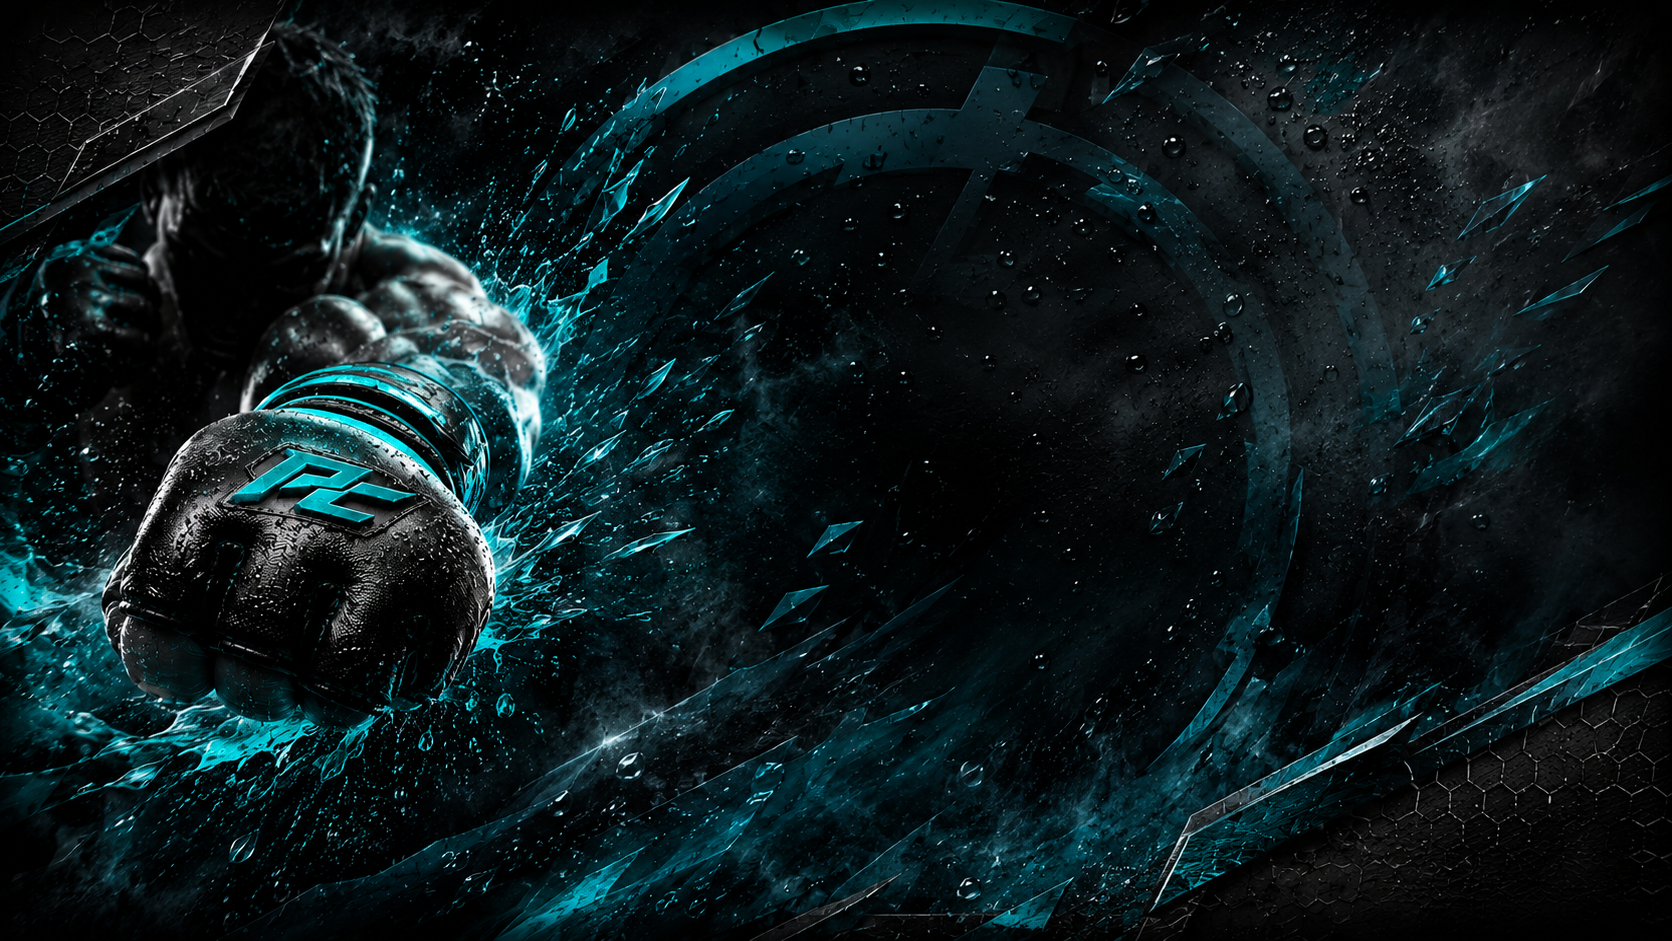
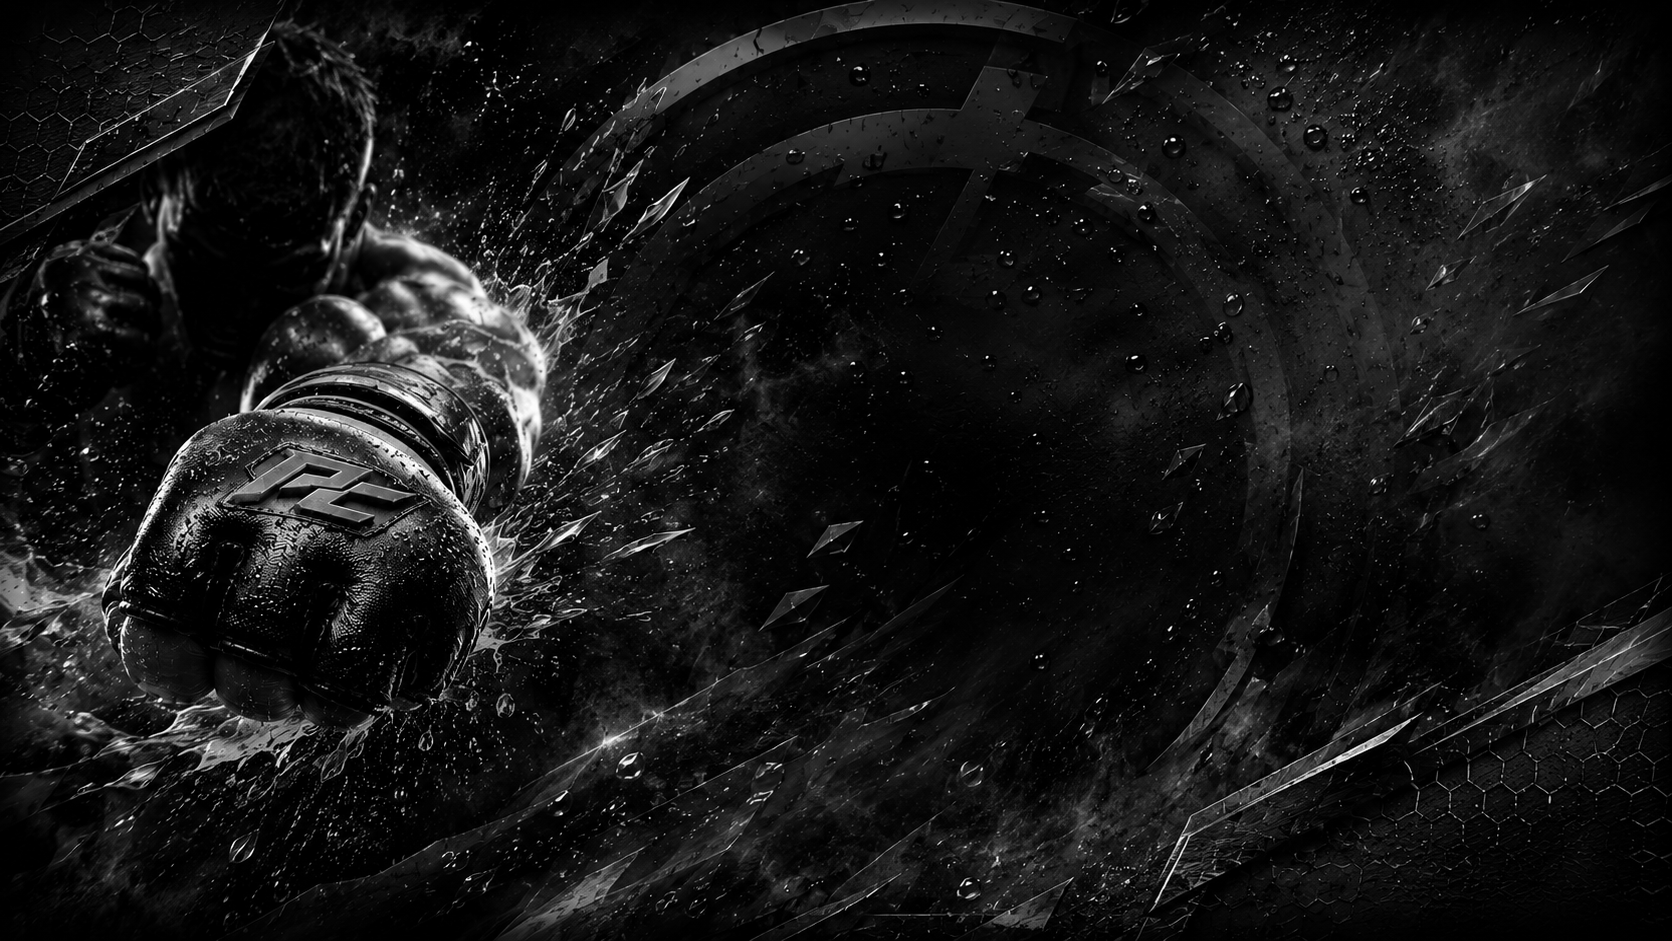
refactor(theme): full metallic-chrome greyscale wash
Every background, surface, border and signal goes colorless
(Kyle: "get the rest of our css teal out of there; all backgrounds
should be greyscale"):

- colors.ts: near-black neutral ground, charcoal/gunmetal surfaces,
  steel lines, and a SHINE ladder where hue used to be — reward
  (near-white) > success (bright chrome) > accent (polished chrome) >
  text tiers. Danger stays a text-carried steel; the no-red rule and
  the hex-distinctness the tests compare by are preserved. The only
  colours left in the UI are the two physical glove dots (blue left,
  red-orange right) — facts, not theme.
- ForgedButton variants remap to chrome gradient stops (inverted
  dark-top → lit-bottom kept); silver bevels, no turquoise anywhere.
- backdrop-landscape.png desaturated in place (git history keeps the
  teal original); the D17 scrim now casts neutral.
- adaptiveIcon background follows the new ground (#0B0D0E).

Residual sweep: zero hex literals outside the theme module.

diff --git a/src/theme/colors.ts b/src/theme/colors.ts
@@ -1,5 +1,5 @@
 /**
- * App-wide dark palette — punchCraft brand.
+ * App-wide dark palette — metallic chrome.
  *
  * The app is dark-only (`userInterfaceStyle: 'dark'` in app.config.ts), so
  * there is no light variant. Every screen and shared component pulls from
@@ -8,179 +8,151 @@
  *
  * ## The palette
  *
- * Fully cool: electric turquoise and its family (bright cyan, highlight
- * turquoise, light aqua, deep teal) over a near-black-teal ground with
- * cool-neutral steel/silver mids. The wordmark art is silver-metallic
- * chiseled type on the same near-black; the rest of the app is now that
- * same ground so the wordmark reads as native to the UI, not glued on.
+ * Colorless by design (Kyle 2026-08-28): a near-black neutral ground with
+ * charcoal/gunmetal surfaces, steel lines, and silver-to-white shine for
+ * everything that used to be an accent hue. The authored button art is
+ * polished chrome on dark metal, and the UI reads as the same material.
  *
- * One deliberate warm holdout — `trackerRight` stays orange, because the
- * physical FightCamp v1 tracker on the right glove is red-orange (see
- * ble/knownTrackers.ts and spec §14). Losing that would break the
- * on-screen-to-on-wrist mapping.
+ * Color survives in exactly three places, all deliberate:
+ * - the punchCraft wordmark (silver + cyan art, used everywhere),
+ * - `trackerLeft` — the physical BLUE left glove,
+ * - `trackerRight` — the physical RED-ORANGE right glove
+ *   (see ble/knownTrackers.ts and spec §14: on-screen must match
+ *   on-wrist).
+ *
+ * ## Shine is the new hue
+ *
+ * With hue gone, brightness carries the semantic ladder:
+ * reward (`gold`, near-white) > success > accent (polished chrome) >
+ * primary text > secondary text > muted. Spec §19.4 — colour is never
+ * the only signal — is now load-bearing everywhere: every state that
+ * used to lean on a hue difference must keep its words and icons, and
+ * the existing tests enforce that pairing.
  *
  * ## Why the semantic roles are not the raw swatches
  *
- * The raw palette (`punch.*` below) is exported for large fills and
- * decorative surfaces where contrast is not the constraint. Text-carrying
- * roles use the same family members chosen for legibility on the near-black
- * ground.
- *
- * Spec §19.4 still applies to all of it: colour is never the only signal.
- * With warm signalling gone, that discipline is more important, not less —
- * `danger`, `warning`, and `gold` no longer carry their meaning by hue
- * alone. Every surface that uses them also carries the words and an icon,
- * and that pairing is enforced by test in `ConflictNotice` and the cue
- * tokens.
+ * The raw palette (`punch.*`) is exported for fills and decorative areas
+ * where contrast is not the constraint; text-carrying roles pick members
+ * chosen for legibility on the near-black ground.
  */
 
 /**
- * The raw brand palette. Use these for fills, borders and decorative
+ * The raw chrome palette. Use these for fills, borders and decorative
  * areas — not for small text on the background.
  */
 export const punch = {
-  /** Electric turquoise — the wordmark's cyan and the primary brand pop. */
-  turquoise: '#22D3DC',
-  /** Slightly warmer/deeper turquoise; the blue-glove tracker dot. */
-  turquoiseDeep: '#1EBBC4',
-  /** Highlight cyan — brighter than accent; the "yes / glow" signal. */
-  turquoiseBright: '#54E8EF',
-  /**
-   * Deep turquoise — the mid-dark member of Kyle's authored palette.
-   * Dark enough for silver-metal label art to pop, saturated enough to
-   * still read as the turquoise action colour.
-   */
-  turquoiseMid: '#15949C',
-  /** Light aqua — the brightest cool; the reward-badge fill. */
-  aqua: '#8CF4F7',
-  /** Deep teal — accent-tinted selected rows. */
-  tealDeep: '#074348',
-  /** Dark teal — cautionary / connecting state. */
-  tealDark: '#0B6970',
-  /** Near-black teal — the app ground. */
-  tealBlack: '#051C1F',
-  /** Charcoal — cool near-black card surface. */
-  charcoal: '#111718',
-  /** Gunmetal — elevated card surface. */
-  gunmetal: '#202A2C',
+  /** Near-white shine — the reward tier. */
+  shine: '#FBFDFD',
+  /** Bright chrome — success / connected. */
+  chromeBright: '#EFF2F3',
+  /** Polished chrome — the action colour (accent). */
+  chrome: '#D9DEE1',
+  /** Silver — secondary text. */
+  silver: '#C6CACC',
+  /** Cool grey — muted labels. */
+  grey: '#81888C',
+  /** Dim steel — cautionary. */
+  steelDim: '#767F83',
+  /** Steel-strong — heavy borders. */
+  steelStrong: '#5A6367',
+  /** Steel-light — the Stop / danger fill (distinct from border). */
+  steelLight: '#4C5457',
   /** Steel — hairlines and borders. */
-  steel: '#3B494A',
-  /**
-   * Steel-light — the Stop / danger colour. A distinct value from
-   * `steel`/`border` on purpose: the tokens.test "no red flash" rule
-   * filters by *hex*, so `danger` must not collide with any hue that
-   * legitimately appears inside cue UI (which uses `border` heavily).
-   */
-  steelLight: '#4A5A5C',
-  /**
-   * Deep charcoal-teal — the destructive-button background. A distinct
-   * value from `charcoal`/`gunmetal` on purpose (same reason as
-   * `steelLight`): the Stop button's fill must not read as an ordinary
-   * card surface, and the test rule enforces that with hex comparison.
-   */
-  charcoalDeep: '#152224',
-  /** Cool mid gray — stronger borders, muted labels. */
-  slate: '#557477',
-  /** Silver — secondary body text. */
-  silver: '#C8C9CA',
-  /** Off-white — primary body text. */
-  offWhite: '#F4F6F6',
-  /** Red-orange — the right glove's physical tracker colour (only warm). */
+  steel: '#3A4145',
+  /** Selected steel — accent-tinted rows/chips. */
+  steelSelected: '#272C2F',
+  /** Gunmetal — elevated card surface. */
+  gunmetal: '#1F2325',
+  /** Deep charcoal — destructive-button ground (distinct from surface). */
+  charcoalDeep: '#171B1D',
+  /** Charcoal — card surface. */
+  charcoal: '#15181A',
+  /** Near-black — the app ground. */
+  black: '#0B0D0E',
+  /** Physical LEFT glove — blue. The one cool colour that remains. */
+  gloveBlue: '#1EBBC4',
+  /** Physical RIGHT glove — red-orange. The one warm colour that remains. */
   gloveRedOrange: '#E2761B',
 } as const
 
 export const colors = {
-  /** App root / scroll bodies. Near-black teal, not neutral grey. */
-  background: punch.tealBlack,
+  /** App root / scroll bodies. Near-black neutral. */
+  background: punch.black,
   /** Cards, list rows, chips, header backgrounds. */
   surface: punch.charcoal,
   /** Pressed / selected variant of `surface`. */
   surfaceElevated: punch.gunmetal,
-  /** Selected accent tint for rows / chips — turquoise-tinted. */
-  accentSurface: punch.tealDeep,
+  /** Selected accent tint for rows / chips — steel, not hue. */
+  accentSurface: punch.steelSelected,
 
   /** Hairlines and card borders. */
   border: punch.steel,
   /** Higher-contrast border (buttons, active outline). */
-  borderStrong: punch.slate,
+  borderStrong: punch.steelStrong,
 
-  /** Primary body text. Cool off-white, not pure white. */
-  textPrimary: punch.offWhite,
+  /** Primary body text. Cool off-white. */
+  textPrimary: '#F3F5F6',
   /** Secondary / metadata text. */
   textSecondary: punch.silver,
   /** Muted labels (timestamps, disabled state). */
-  textMuted: punch.slate,
-  /**
-   * Text on top of `accent` fills — dark, because bright cyan is a light
-   * fill. Matches the ground so an accent chip reads as a cut-out.
-   */
-  textOnAccent: punch.tealBlack,
+  textMuted: punch.grey,
+  /** Text on top of `accent` fills — dark, because chrome is a light fill. */
+  textOnAccent: punch.black,
 
   /**
    * Primary action / focus / the active cue ring.
    *
-   * Electric turquoise — the wordmark's cyan, at ~11:1 on the background.
-   * The most legible bright member of the palette, which is what the live
-   * screen needs when it is read at arm's length, mid-combination.
+   * Polished chrome — the brightest working colour that is not a
+   * reward. ~13:1 on the background, which is what the live screen
+   * needs when read at arm's length mid-combination.
    */
-  accent: punch.turquoise,
+  accent: punch.chrome,
 
   /**
-   * Warning / attention. Dark teal — dim on purpose, so a warning does not
-   * out-shout the accent. Text and icon always ride alongside per §19.4.
+   * Warning / attention. Dim steel — quiet on purpose; the words and
+   * icon beside it carry the meaning (§19.4).
    */
-  warning: punch.tealDark,
+  warning: punch.steelDim,
   /**
-   * Success indicator. Highlight cyan — brighter than accent, so a
-   * connection-good dot glows against a chip that also carries accent.
+   * Success indicator. Bright chrome — one step above `accent` on the
+   * shine ladder, so a connected dot reads against an accent chip.
    */
-  success: punch.turquoiseBright,
+  success: punch.chromeBright,
   /**
    * Reward. Two consumers, deliberately sharing one token: the
    * exact-target result badge (doc §23, M33-03) and the form-affirmation
-   * glow on a punch node. Both mean "that was right", so they should not
-   * be two different tokens.
+   * glow on a punch node. Both mean "that was right".
    *
-   * Light aqua — the brightest cool in the palette, distinct from `accent`
-   * (bright cyan) and from `success` (highlight cyan) by lightness alone.
-   * The pre-cool palette used a warm gold here; on a fully-cool ground a
-   * warm gold would fight the wordmark, so the reward now glows in the
-   * palette's top cool tone.
-   *
-   * Colour still never carries the meaning alone (spec §19.4) — the exact
-   * state renders a target icon and the words `EXACT TARGET`, and the form
-   * affirmation renders a star glyph and a "good form" label.
+   * Near-white shine — the brightest thing on any screen. On a chrome
+   * palette the reward cannot out-hue anything, so it out-shines
+   * everything instead. Colour still never carries the meaning alone
+   * (spec §19.4) — the exact state renders a target icon and the words
+   * `EXACT TARGET`, and the form affirmation renders a star glyph.
    */
-  gold: punch.aqua,
+  gold: punch.shine,
   /**
    * Danger / stop.
    *
-   * Steel-light — deliberately non-signalling by colour. Doc §13/§21 forbid
-   * a red flash mid-combination, so this token appears only on the Stop
-   * button and in conflict notices, always with the word "STOP" or "END"
-   * and an icon. With the palette gone fully cool there is no red to fall
-   * back on, so the affordance is text-carried by design — the button
-   * reads as subdued so the athlete does not slap it by reflex.
+   * Steel-light — deliberately non-signalling by colour. Doc §13/§21
+   * forbid a red flash mid-combination; the affordance is text-carried
+   * ("STOP", "END") and the fill stays subdued so the athlete does not
+   * slap it by reflex. Hex distinct from `border` because the
+   * no-red-flash test compares by value.
    */
   danger: punch.steelLight,
   /** Solid destructive button background — distinct from surfaceElevated. */
   dangerSurface: punch.charcoalDeep,
 
-
   /**
    * Physical tracker colours. The trackers are colour-coded and permanently
    * assigned — blue is the left glove, red the right (see
    * ble/knownTrackers.ts). Any surface that distinguishes hands should use
-   * these so the on-screen marker matches the device on the athlete's wrist.
-   *
-   * Left uses the palette's deeper turquoise (distinct from `accent`'s
-   * brighter cyan so a dot near an accent chip does not disappear). Right
-   * stays warm red-orange — the one warm holdout in the palette, because
-   * the physical device is red-orange and swapping it to a cool tone would
-   * break the on-screen-to-on-wrist mapping. §19.4 still applies — these
-   * always accompany an L/R letter or a text label.
+   * these so the on-screen marker matches the device on the athlete's
+   * wrist. These are the ONLY colours in the UI, kept precisely because
+   * they are physical facts, not theme choices. §19.4 still applies —
+   * always beside an L/R letter or a text label.
    */
-  trackerLeft: punch.turquoiseDeep,
+  trackerLeft: punch.gloveBlue,
   trackerRight: punch.gloveRedOrange,
 } as const
 

diff --git a/src/components/branding/ForgedButton.tsx b/src/components/branding/ForgedButton.tsx
@@ -54,45 +54,43 @@ interface VariantVisual {
 }
 
 const VARIANTS: Record<ForgedVariant, VariantVisual> = {
-  // Gradients run inverted — dark at the top, lit at the bottom edge —
-  // so every button reads as under-glowing, matching the neon under-glow
-  // in the authored action-button art.
+  // Chrome metal throughout (Kyle 2026-08-28). Gradients run inverted —
+  // dark at the top, lit at the bottom edge — so every button reads as
+  // under-glowing, matching the authored chrome button art.
   primary: {
-    gradient: [punch.tealDeep, punch.turquoise, punch.aqua],
-    gradientPressed: [punch.tealDeep, punch.turquoiseDeep, punch.turquoise],
-    bevelTop: punch.aqua,
-    bevelBottom: punch.tealBlack,
+    gradient: [punch.gunmetal, punch.steel, punch.chrome],
+    gradientPressed: [punch.black, punch.gunmetal, punch.steelStrong],
+    bevelTop: punch.chromeBright,
+    bevelBottom: punch.black,
     textColor: colors.textOnAccent,
     textRecipe: recipes.buttonPrimary,
   },
   /**
-   * Dark forged body with a cyan bevel. For buttons carrying the
-   * silver-metal ActionLabel art: that art was authored for a dark
-   * ground (like the wordmarks) and drowns on the bright `primary`
-   * fill, so the hero button provides the dark field and lets the
-   * cyan bevel carry the "this is the big action" signal instead.
+   * Dark forged body with a silver bevel — the dark field for anything
+   * carrying bright chrome art or text that must read as the big action
+   * without a bright fill.
    */
   hero: {
-    gradient: [punch.tealBlack, punch.charcoal, punch.gunmetal],
-    gradientPressed: [punch.tealBlack, punch.tealBlack, punch.charcoal],
-    bevelTop: punch.turquoise,
-    bevelBottom: punch.tealDark,
+    gradient: [punch.black, punch.charcoal, punch.gunmetal],
+    gradientPressed: [punch.black, punch.black, punch.charcoal],
+    bevelTop: punch.chrome,
+    bevelBottom: punch.steelStrong,
     textColor: colors.textPrimary,
     textRecipe: recipes.buttonPrimary,
   },
   secondary: {
-    gradient: [punch.tealBlack, punch.steel, punch.silver],
-    gradientPressed: [punch.tealBlack, punch.gunmetal, punch.steel],
+    gradient: [punch.black, punch.steel, punch.silver],
+    gradientPressed: [punch.black, punch.gunmetal, punch.steel],
     bevelTop: punch.silver,
-    bevelBottom: punch.tealBlack,
+    bevelBottom: punch.black,
     textColor: colors.textPrimary,
     textRecipe: recipes.buttonSecondary,
   },
   subtle: {
-    gradient: [punch.tealBlack, punch.gunmetal, punch.steel],
-    gradientPressed: [punch.tealBlack, punch.charcoal, punch.gunmetal],
+    gradient: [punch.black, punch.gunmetal, punch.steel],
+    gradientPressed: [punch.black, punch.charcoal, punch.gunmetal],
     bevelTop: punch.steel,
-    bevelBottom: punch.tealBlack,
+    bevelBottom: punch.black,
     textColor: colors.textPrimary,
     textRecipe: recipes.buttonSubtle,
   },

diff --git a/app.config.ts b/app.config.ts
@@ -46,9 +46,9 @@ const config: ExpoConfig = {
     // padding should be.
     adaptiveIcon: {
       foregroundImage: './assets/branding/icon.png',
-      // Matches the in-app `colors.background` (near-black teal) so the
+      // Matches the in-app `colors.background` (near-black chrome) so the
       // launcher tile reads as the same ground as the app itself.
-      backgroundColor: '#051C1F',
+      backgroundColor: '#0B0D0E',
     },
     // These are also declared by react-native-ble-plx's config plugin below,
     // but we list them here so the manifest is legible without running prebuild.
